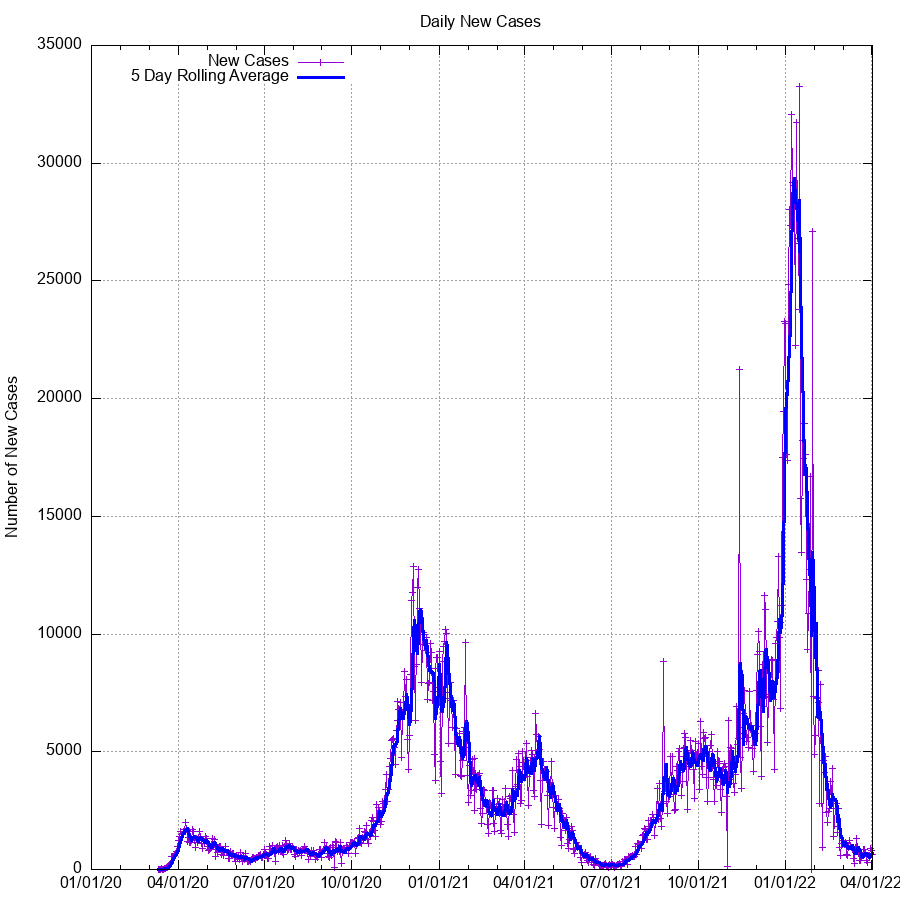
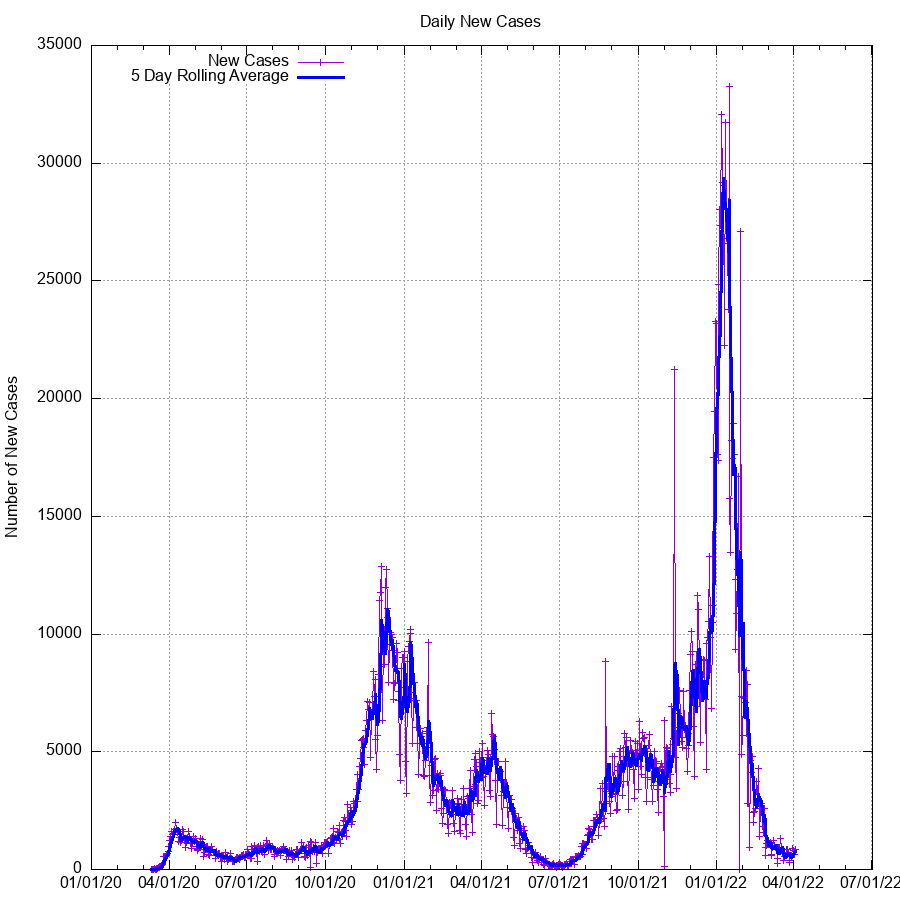
04 Apr 2022 Data

Changed region(s): [[0.1556, 0.1244, 0.9333, 0.9956], [0.9333, 0.9333, 0.9644, 0.9644]]

diff --git a/README.md b/README.md
@@ -357,6 +357,8 @@ reporting performed by actual epidemiologists and data scientists.
 - 21 Feb 2022: Daily count of cases has not been provided for today. Information
   will be amended if further updates are provided.
 
+- 03 Apr 2022: Daily count of cases has not been provided for today. Information
+  will be amended if further updates are provided.
 
 ## Sample Output
 ```
